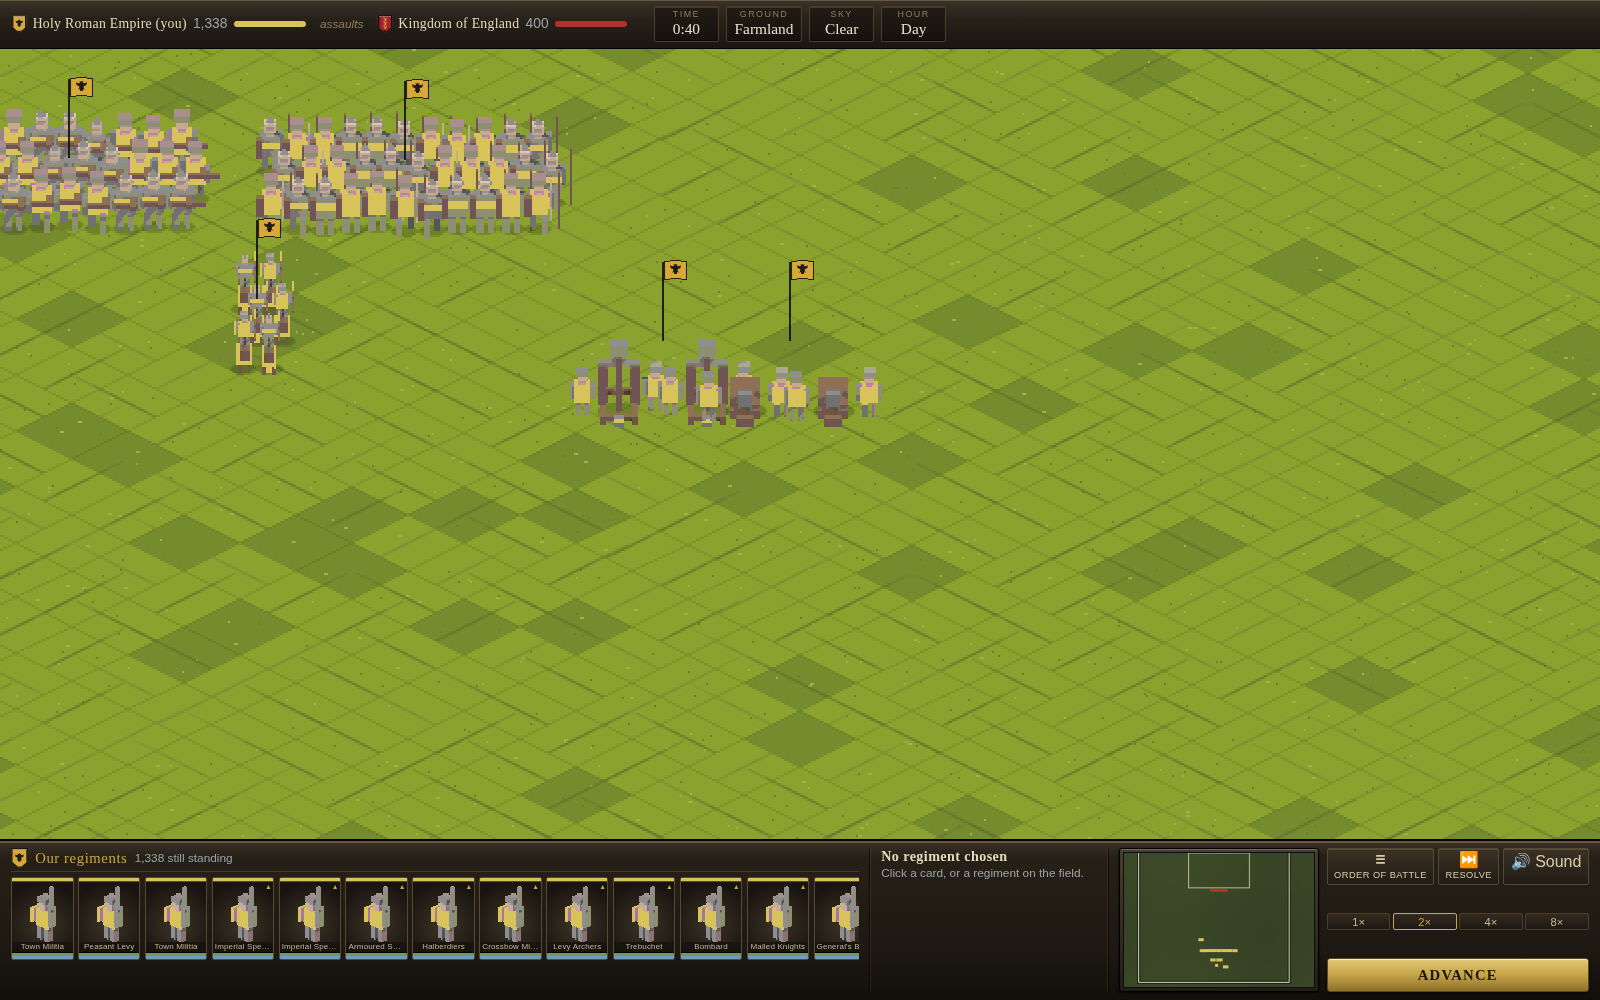
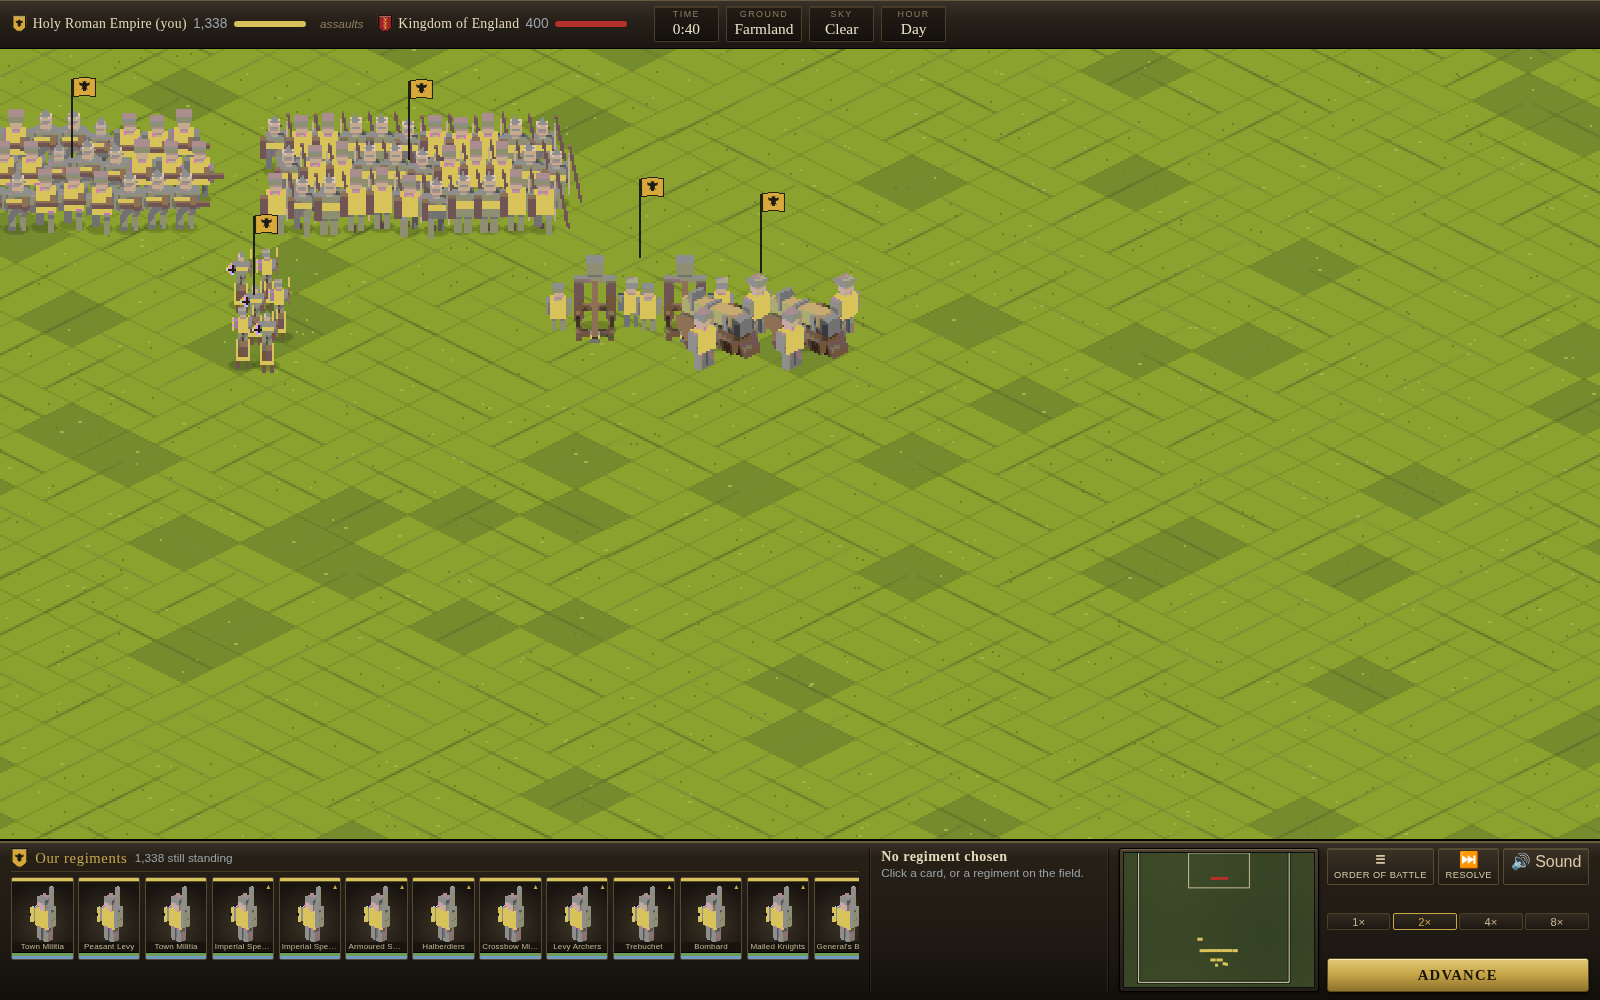
And all of that, written down
The README and the design notes for the devices on the shields, the day that
turns, the snow that lies on the ground, the walls that are finally worth
building, and the alliances that want a reason.

Two new sections in the design notes — one on walls, with the table of what a
tier is worth and why the frontage cap is the whole of it, and one on why an
alliance needs a cause — plus the note on what the diagnostic got wrong twice
before it got the game right. "The weather does not change during a battle"
comes off the list of things that are deliberately simple, and a winter
palette for the campaign map goes on the roadmap in its place.

New screenshots of an assault going in over a breached wall and of a siege
train drawn up behind the army; the battle, fog and snow shots are retaken,
because every man in them is carrying his realm's device now.

Changed region(s): [[0.0, 0.062, 0.4062, 0.372], [0.3438, 0.248, 0.5625, 0.434], [0.4688, 0.186, 0.5, 0.217]]

diff --git a/docs/design.md b/docs/design.md
@@ -87,9 +87,66 @@ order: orders and movement, missile fire, melee, morale, victory check.
 - **Weather and the hour** cap how far anyone can see, slacken bowstrings, wet
   powder, mire the ground, tire the men and shorten their tempers, and take
   the day away from a battle begun too late. See below.
+- **Walls** multiply the defence of the men behind them, halve the reach of
+  the men coming over them, give cover against shot, steady the garrison's
+  nerve, and — the part that matters most — cap how many of the attacker's
+  numbers can come to grips at once. See below.
 
 Both presentations run the same model. A battle the player watches and a battle
 the campaign resolves for them differ only in whether it is drawn.
+
+## Walls
+
+The simulation had a settlement on the field from the first commit and never
+once read it. An assault was a field battle in which the defender happened to
+be a garrison, and two centuries of campaign said so plainly: **attackers were
+storming walled towns nine times in ten, and paying no more for a wall than
+for an open field**. That is the exact opposite of the medieval record, where
+an assault was the expensive way to take a place and starving it out was the
+usual one.
+
+One number per tier — `WALL_DEFENCE`, from 1.5 for a palisade to 3.8 for the
+greatest works — and five things come out of it:
+
+| | |
+| :--- | :--- |
+| Defence | the man on the parapet fights that much better |
+| Attack | the man on the ladder fights that much worse, by the square root of it, because he at least chooses his moment |
+| Cover | shot into the works is blunted, and the archers behind it are not |
+| Nerve | the garrison's morale threshold rises with the wall |
+| **Frontage** | **the fight is as wide as the parapet and no wider** |
+
+The last one is the wall. Everything above it is an arithmetic advantage that
+enough men can drown; the frontage cap is why they cannot. The fight is cut to
+a third of the defender's own frontage however many are waiting below, and a
+man on a wall is never flanked and never surrounded, because there is nothing
+to surround him with. Take that away and numbers decide an assault — which is
+precisely what they were doing.
+
+A garrison also **forms inside its own walls**. Deployment draws a line of
+battle, which is right for a field and wrong for a town: a line is three
+hundred metres wide and a walled town is a circle half that across, so most
+of the garrison used to stand outside the wall it was defending. The line is
+compressed into the works rather than rewritten, so the foot is still in the
+middle and the shooting still behind it. They are simply all inside now,
+which is crowded, as a town under assault was. The battle AI holds them
+there: the planner's ordinary doctrine walked them off the wall and into the
+open, which is the one thing a besieged garrison must not do.
+
+**Only engines breach a wall.** They wear its integrity down while they are in
+range, and below 0.35 it is down and none of the above applies. An army that
+brought no siege train can stand in front of a stone town all day and take it
+only if the garrison breaks — which is the correct answer, and the reason to
+drag a trebuchet across Europe. The engines had to be told to come forward to
+do it: the rear of an army is six hundred metres from the works and the
+longest-ranged thing in the game throws three hundred and sixty, so a siege
+train left where it was unlimbered was baggage.
+
+Measured at two to one against a small garrison: six regiments take an open
+town every time, take a wooden one about half the time, and do not take a
+stone one at all — and with two trebuchets they take the stone one every
+time. Across a campaign, storming a wall now costs an attacker about half as
+many men again as a field battle, where it used to cost him nothing.
 
 ## Weather, and the hour
 
@@ -105,7 +162,23 @@ the other.
 Six skies — clear, overcast, rain, storm, snow, fog — and four hours: dawn,
 day, dusk, night. Both are **rolled once from the battle's own seed** before
 anything moves, so a replayed campaign fights the same battle under the same
-sky, and neither is stored on the campaign state. Season, ground and what kind
+sky, and neither is stored on the campaign state.
+
+**The day does not hold still.** The whole of it is rolled at once as a list
+of spells: most battles keep the sky they started under, because a field
+action lasted less than an hour of fighting time and weather does not usually
+turn inside one, but about two in five get a change and a few get two. A
+change moves to a *neighbouring* sky rather than an arbitrary one — cloud
+thickens into rain and rain into a storm, a storm blows itself out, snow
+eases back to cloud, and fog lifts rather than arriving, because the thing
+that makes fog is the night that has already passed. Nothing turns inside the
+first four minutes or in the last two, and a change crosses over half a
+minute rather than cutting: the conditions are mixed across it, so the
+shooting does not fall off a cliff the instant the first drop lands, and the
+picture mixes the two washes over the same half minute. A sky that was
+*named* rather than rolled — a demo battle, a test — holds for the day, since
+a squall arriving ten minutes into something somebody is trying to look at
+would defeat the point of naming it. Season, ground and what kind
 of fight it is all weight the draw: no snow in a summer campaign or in the
 desert, fog thick on marsh and coast and in forest, storms and snow in the
 mountains, no fleet action at night, and night four times likelier in an
@@ -428,6 +501,59 @@ and it is not part of the build, because a diagnostic that fails the build is a
 diagnostic people stop running. `watchBattles` in `campaign/resolve.ts` exists
 for it and for nothing else: it observes a finished result and cannot write.
 
+It has already been wrong twice, and both ways are worth writing down.
+
+**It counted dead realms.** The first version walked every faction's relations
+and counted every alliance it found, including alliances with realms that no
+longer existed, and reported three times as many as there were. A diagnostic
+is a measurement and a measurement can be wrong; the first thing to do with a
+number that looks bad is to check the instrument.
+
+**It counted the tail.** The second version counted events by searching the
+log at the end of the run. The log is capped at two thousand entries, because
+it is a panel in the interface rather than a chronicle, so a two-hundred-turn
+campaign throws most of it away: it reported fifteen wars declared where the
+true figure was two hundred and twenty-seven. Events are now counted once a
+turn, from the entries that turn put there.
+
+**And it learned to ask the better question.** "Attackers win ninety per cent
+of assaults" is not in itself a fault — an army storms a town when it can
+afford to, so it usually wins, and a success rate carries that selection
+inside it. What has no counterfactual in it is the *price*: a wall that costs
+the man coming over it no more than an open field is a wall that is not
+working, and that was true, and it is how the walls got written.
+
+## An alliance needs a reason
+
+Goodwill used to be enough. Trade warmed a relationship to 65 and the bar for
+an alliance was 62, so every trading partner in Europe eventually became an
+ally: over two hundred turns a one-in-twenty chance a turn is a certainty,
+and the only thing holding the number down was the cap of two alliances a
+crown.
+
+A medieval alliance was not the natural end of a warm correspondence. It was
+made for a reason and it lasted as long as the reason did, which is why so
+few of them outlived the war they were made for. So trade now warms to 55 and
+stops — commerce makes a treaty of commerce — the bar is 72, and on top of
+the attitude there must be a **cause**:
+
+| | |
+| :--- | :--- |
+| A marriage | a bride at one court who was born in the other, which is the whole of the bond a marriage makes |
+| A common enemy | somebody they are *both* at war with, and who is stronger than one of them. Two kings fighting the same small neighbour have a coincidence, not a cause |
+| A holy war | both sworn to the same crusade or jihad |
+
+And an alliance with no cause left **cools and lapses**. The league made
+against somebody dissolves when that somebody does.
+
+What this does not fix, and the diagnostic says so, is that the ceiling is
+still what limits the number: raise it from two to four and the average rises
+with it. The reason is visible in the same report — seventy-odd pairs of
+houses are tied by marriage, and the courts of Europe intermarry faster than
+leagues lapse. That is historically the right shape and the cap is the
+model's statement about how many commitments a crown will carry, so it is
+left where it is.
+
 ## How a campaign ends
 
 Three ways, and the third is the one that was missing. A realm wins by
@@ -521,6 +647,19 @@ is a horseman with his standard planted beside him and a captain is the same
 man on foot, which is also the only honest way to show a thing the simulation
 already knows about.
 
+**Two markers, seventy-three realms.** Everything that belongs to an owner is
+rendered in pure magenta and swapped for their colour; everything painted on
+a shield is rendered in pure cyan and swapped for the second tincture out of
+their own blazon — the ordinary laid over the field, or the other half of a
+divided one, or whatever the charge is in. It costs no extra renders, because
+the division is in the model rather than in a variant of it, and it is the
+difference between seventy-three realms carrying the same flat board in
+different paint and seventy-three realms carrying their own device. A cross,
+because a lion at eighteen pixels is four dark ones, and a cross is what most
+shields in Europe actually had on them. A caller that does not know a realm's
+device gets the owner's colour in its place, so nothing is ever drawn with a
+cyan cross on it.
+
 **One sheet, seventy-three realms.** Everything standing on the campaign map
 comes off a single sprite sheet, modelled and rendered by
 `tools/build-sprites.py` rather than drawn. Whatever belongs to an owner is
@@ -601,6 +740,21 @@ rather than as a march in the wrong direction, and his two flights play
 straight against each other because there is no moment of standing still in
 a man who is running. Seven hundred and eighty-eight renders, and offline.
 
+**A prop is turned about itself, not about the world.** The sprite tool
+writes a box's vertices at the position it is handed, so setting an object
+rotation afterwards swung those vertices about the world origin instead of
+about the thing itself — and the spin that faces a figure in one of eight
+directions read `matrix_world`, which Blender had not worked out yet, losing
+the placement of anything that had one. Everything built from plain boxes was
+correct, which is most of this file, which is why it stood so long. What was
+not correct: a couched lance stood upright in front of its knight, a drawn
+bow lay across its archer as a plank, a levelled pike was a pole on the
+ground beside him, and every round shield on the sheet was lying at its
+owner's feet — in seven of the eight directions each. Props are now built at
+the origin, turned, and then placed, and the spin composes against
+`matrix_basis`, which is derived from the object's own location and rotation
+and is never stale.
+
 **And the sheet is cut to fit.** Every render comes back as a square of the
 same side and most of that square is air — a man occupies about a third of
 his. Kept square, this sheet would be five megabytes of texture before the
@@ -660,6 +814,16 @@ to eleven pixels the metre, so every man in a line is a man. Arrows are drawn on
 where the simulation would have that unit shooting this tick, and dust only
 where units are actually in contact: the picture does not say anything the
 model is not doing.
+
+**Snow lies on the ground, it does not only fall through the air.** The wash
+over the finished picture can only darken or veil, so a field under a
+snowstorm came out looking like mud until the ground's own colour ladder went
+white — step for step against the snow ladder, so a shadow on snow is blue
+and a lit slope nearly white. Ploughed fields and steppe grass stop being
+drawn under it, because they are buried; trees do not, because they are not,
+and dark trees on a white field is most of what a winter landscape is. The
+cover follows the sky, so it melts back off over the half minute a change
+takes.
 
 **The sky is the model, lit.** The wash over the field is the weather the
 simulation is reading: a multiply for the hour — cold and low at dawn, warm and
@@ -809,9 +973,6 @@ succeeds would be a poor teacher.
   was there last year.
 - **Battle AI is a doctrine, not a search.** Hold a line with the heavy foot,
   shoot with everything, use cavalry against whatever is exposed.
-- **The weather does not change during a battle.** It is rolled once and holds
-  for the day. Rain that starts halfway through would be a better model and a
-  worse thing to plan around.
 - **A battery's cadence is drawn, not simulated.** The model fires missiles at
   a steady rate rather than in discrete shots, so the moment an engine is shown
   loosing is a cadence of the renderer's own. It is the one place the picture

diff --git a/README.md b/README.md
@@ -181,6 +181,16 @@ fight at sea.
   regiment mostly coloured and half mostly grey is the difference between a
   body of men and the same man stamped a hundred and twenty times.
 
+  **Every man carries his realm's device on his shield.** Two marker colours
+  rather than one: magenta for whatever belongs to the owner, cyan for what is
+  painted on the board, and the second is swapped for the tincture that realm's
+  own blazon puts there — the ordinary over the field, the other half of a
+  divided one, whatever the charge is in. A black cross on Imperial gold, gold
+  on French blue, white on Danish red. It costs no extra renders, because the
+  division is in the model rather than in a variant of it, and it is the
+  difference between seventy-three realms carrying the same flat board in
+  different paint and seventy-three realms carrying their own.
+
   <div align="center">
   <img src="docs/screenshots/battle.png" alt="A French line and an Imperial one, every man drawn" width="860" />
   </div>
@@ -199,12 +209,40 @@ fight at sea.
   | Ground | hills and mountains fight on a ridge, and holding the crest is worth real advantage |
   | The sky | what is falling, and what hour it is — below |
 
+- **Walls that are worth building.** The simulation had a settlement on the
+  field from the first commit and never once read it, so storming a stone town
+  was a field battle in which the defender happened to be a garrison. Two
+  centuries of campaign said so: attackers took walled towns nine times in ten
+  and paid no more for a wall than for an open field, which is the exact
+  opposite of the medieval record.
+
+  | | |
+  | :--- | :--- |
+  | The garrison | forms *inside* its own walls, and stays there — a line of battle is twice as wide as a town, so most of it used to stand outside the wall it was defending |
+  | Defence | multiplied by the works, from a palisade to the greatest stone |
+  | The ladder | the man coming over fights worse, and shot into the works is blunted |
+  | Frontage | **the fight is as wide as the parapet and no wider.** A man on a wall is never flanked and never surrounded, and the attacker's numbers wait their turn. This is the wall; everything above it is arithmetic that enough men can drown |
+  | The breach | only engines bring a wall down, and an army without a siege train can stand in front of a stone town all day |
+
+  At two to one against a small garrison: six regiments take an open town every
+  time, a wooden one about half the time, and a stone one not at all — and with
+  two trebuchets they take the stone one every time. The trebuchet finally earns
+  the road it was dragged along.
+
+  <div align="center">
+  <img src="docs/screenshots/assault.png" alt="An Imperial assault going in over a breached wall against an English garrison" width="860" />
+  </div>
+
 - **Fought in whatever the morning gave.** Six skies — clear, overcast, rain,
   storm, snow, fog — and four hours, rolled once from the battle's own seed so a
   replayed campaign fights the same battle under the same sky. None of it is a
   filter over the picture: every number the weather sets is read by the
   simulation, and the fog that thins the field is the fog that stopped the
-  archers shooting.
+  archers shooting. And the day does not hold still: about two battles in five
+  see the sky turn, to a neighbouring one rather than an arbitrary one, crossing
+  over half a minute rather than cutting — cloud thickens into rain, a storm
+  blows itself out, fog lifts. Snow lies on the ground as well as falling
+  through the air.
 
   | | |
   | :--- | :--- |
@@ -516,6 +554,7 @@ URL parameters open a known state without a sequence of clicks:
 ?demo=battle&weather=snow&hour=dusk      the same battle, in snow, with the light going
 ?demo=battle&weather=fog&at=360          fog, and an enemy you cannot see until he is on you
 ?demo=siege&blook=760,860&bzoom=7        the siege train at the back of a storming army
+?demo=siege&at=380&bzoom=5&blook=700,260 an assault going in over a breached wall
 ?demo=end&faction=croatia                the closing reckoning
 ```
 
@@ -530,8 +569,11 @@ URL parameters open a known state without a sequence of clicks:
 - [x] Battles fought in winter, in rain, in fog and at night
 - [x] Sound, synthesised rather than sampled
 - [x] Siege engines that are drawn as siege engines
+- [x] Weather that changes during a battle rather than holding for the day
+- [x] Every realm's own device on its men's shields
+- [x] Walls that decide an assault, and siege engines that bring them down
 - [ ] Sprites for the rest of it: baggage, ports and bridges
-- [ ] Weather that changes during a battle rather than holding for the day
+- [ ] A winter palette for the campaign map, not only the battlefield
 
 ## Not a reimplementation
 
